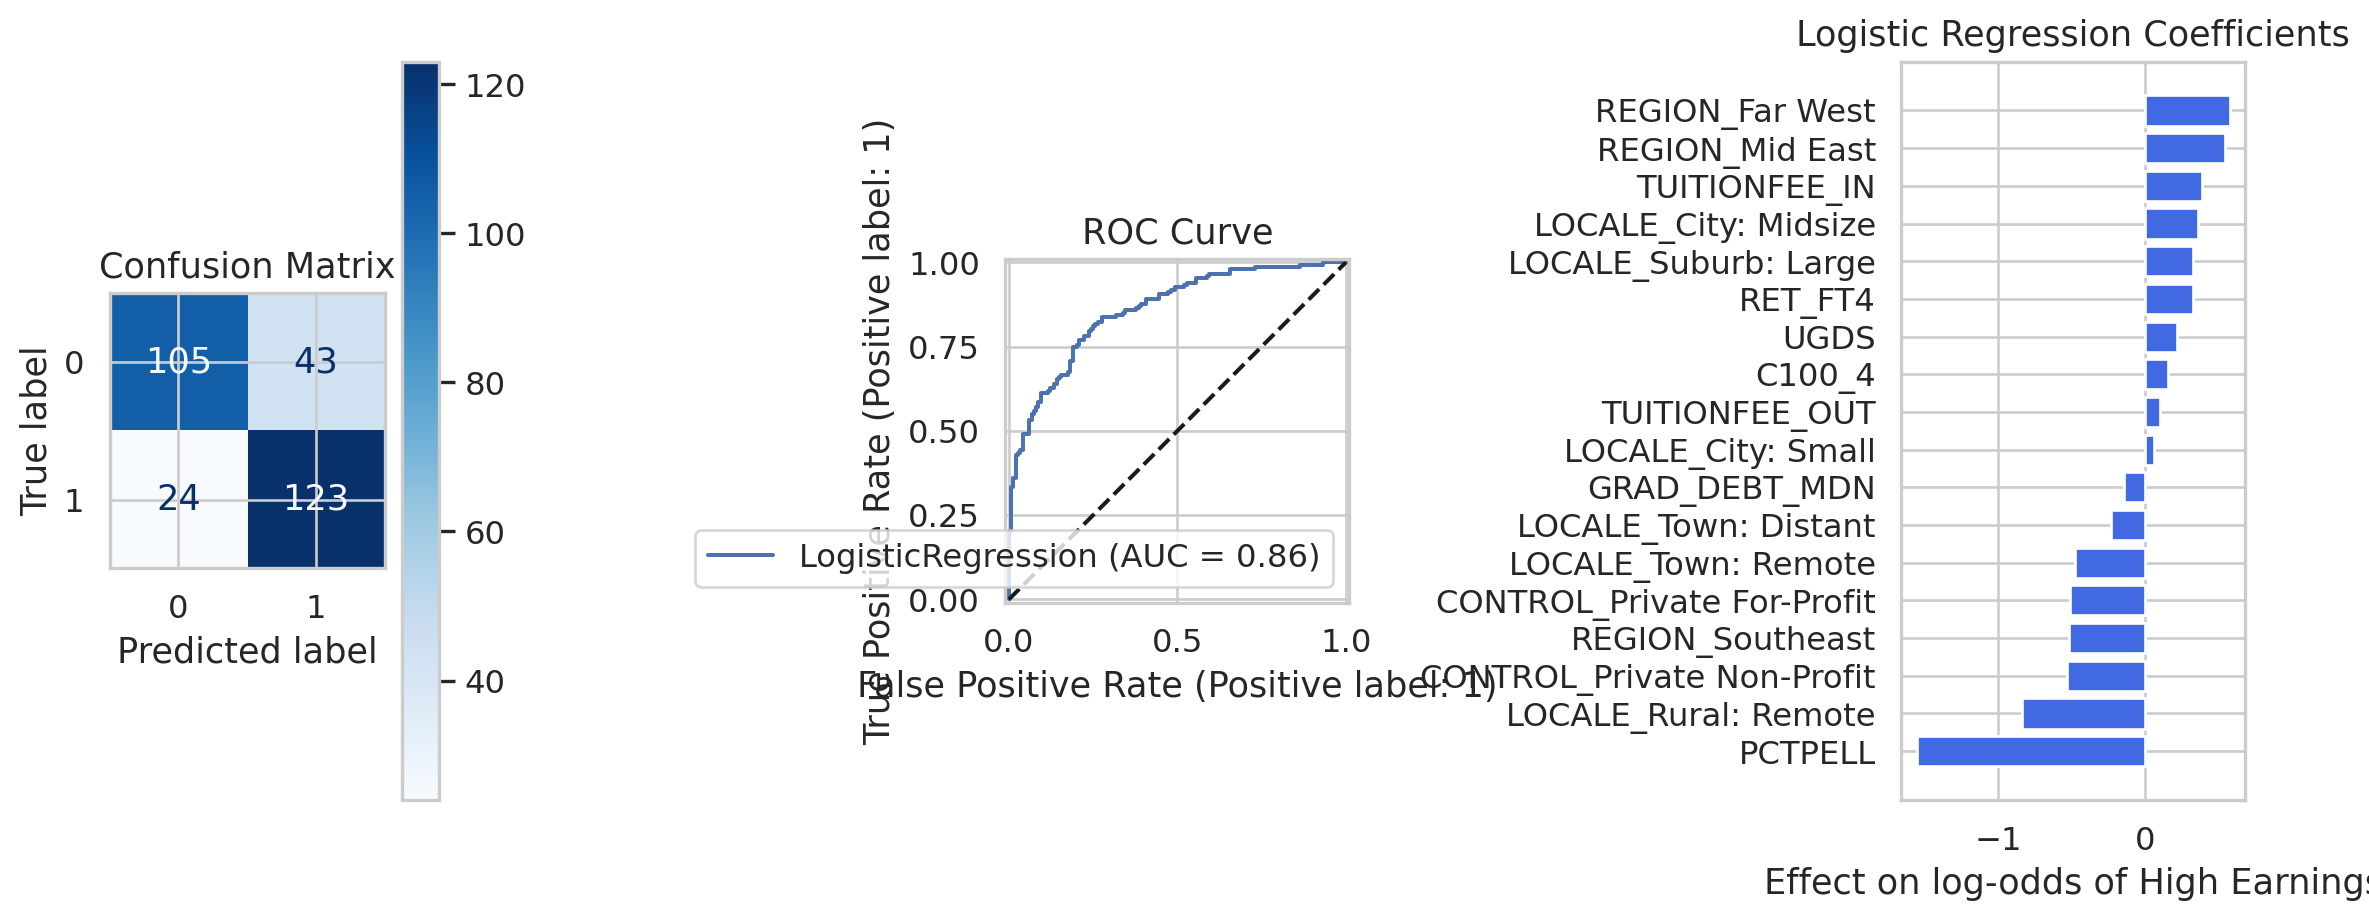
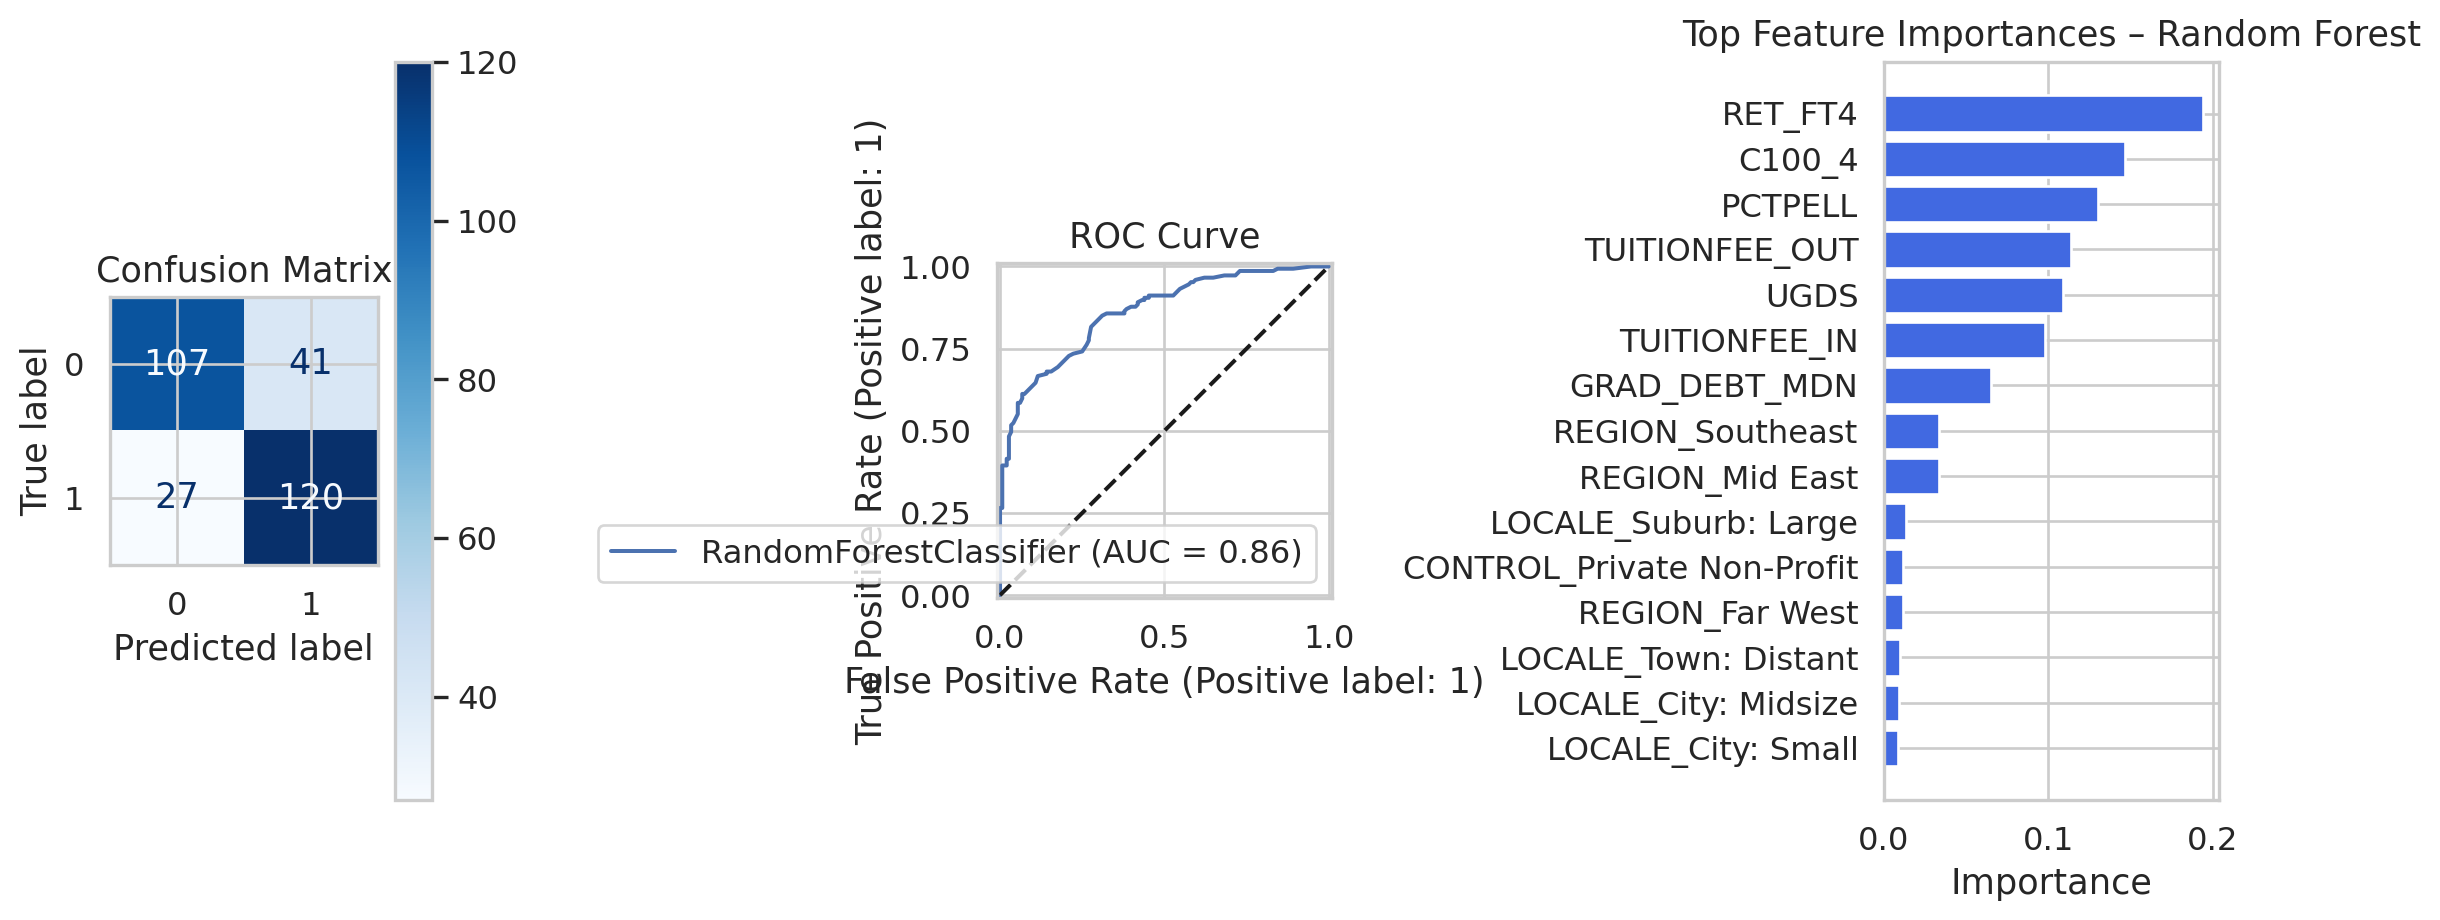
Built site for gh-pages

diff --git a/presentation.html b/presentation.html
@@ -223,7 +223,7 @@ Ava Lasater
 </section>
 <section id="correlation-matrix-of-numerical-features" class="slide level2 smaller">
 <h2>Correlation Matrix of Numerical Features</h2>
-<div id="a780d1a2" class="cell" data-fig-height="6" data-fig-responsive="false" data-fig-width="8" data-execution_count="4">
+<div id="9984a62b" class="cell" data-fig-height="6" data-fig-responsive="false" data-fig-width="8" data-execution_count="4">
 <div class="cell-output cell-output-display">
 <div class="quarto-figure quarto-figure-center">
 <figure>
@@ -264,7 +264,7 @@ Ava Lasater
 </section>
 <section id="linear-regression-results-1" class="slide level2 smaller">
 <h2>Linear Regression Results</h2>
-<div id="66798e18" class="cell" data-fig-height="6" data-fig-responsive="false" data-fig-width="8" data-execution_count="5">
+<div id="b8c86883" class="cell" data-fig-height="6" data-fig-responsive="false" data-fig-width="8" data-execution_count="5">
 <div class="cell-output cell-output-stdout">
 <pre><code>Mean Squared Error: 110300510.89
 R-squared: 0.4855</code></pre>
@@ -295,7 +295,7 @@ R-squared: 0.4855</code></pre>
 </section>
 <section id="ridge-regression-results-1" class="slide level2 smaller">
 <h2>Ridge Regression Results</h2>
-<div id="36ed5745" class="cell" data-fig-height="6" data-fig-responsive="false" data-fig-width="10" data-execution_count="6">
+<div id="c3d48152" class="cell" data-fig-height="6" data-fig-responsive="false" data-fig-width="10" data-execution_count="6">
 <div class="cell-output cell-output-stdout">
 <pre><code>Ridge Regression:
 Mean Squared Error: 110226157.793066
@@ -329,7 +329,7 @@ R-squared: 0.48583010161522244</code></pre>
 </section>
 <section id="selectkbest-feature-selection" class="slide level2">
 <h2>SelectKBest Feature Selection</h2>
-<div id="bba73abb" class="cell" data-fig-height="6" data-fig-responsive="false" data-fig-width="10" data-execution_count="7">
+<div id="f05d2122" class="cell" data-fig-height="6" data-fig-responsive="false" data-fig-width="10" data-execution_count="7">
 <div class="cell-output cell-output-display">
 <div class="quarto-figure quarto-figure-center">
 <figure>
@@ -358,18 +358,6 @@ R-squared: 0.48583010161522244</code></pre>
 <li><strong>Takeaway:</strong> Structural and academic characteristics (size, retention, completion) and student composition matter more than geographic setting.</li>
 </ul>
 </section>
-<section id="permutation-importance" class="slide level2">
-<h2>Permutation Importance</h2>
-<div id="ec995749" class="cell" data-fig-height="6" data-fig-responsive="false" data-fig-width="10" data-execution_count="8">
-<div class="cell-output cell-output-display">
-<div class="quarto-figure quarto-figure-center">
-<figure>
-<p><img data-src="presentation_files/figure-revealjs/cell-9-output-1.png" class="quarto-figure quarto-figure-center" width="940" height="556"></p>
-</figure>
-</div>
-</div>
-</div>
-</section>
 <section id="logistic-regression-classification" class="slide level2 smaller">
 <h2>Logistic Regression Classification</h2>
 <ul>
@@ -391,10 +379,10 @@ R-squared: 0.48583010161522244</code></pre>
 </section>
 <section id="logistic-regression-results" class="slide level2 smaller">
 <h2>Logistic Regression Results</h2>
-<div id="6ad71414" class="cell" data-fig-height="5" data-fig-responsive="false" data-fig-width="12" data-execution_count="9">
+<div id="5275eeb2" class="cell" data-fig-height="5" data-fig-responsive="false" data-fig-width="12" data-execution_count="8">
 <div class="cell-output cell-output-stdout">
 <pre><code>k-Fold F1-Score: 0.80
-k-Fold CV took 0.14 seconds
+k-Fold CV took 0.08 seconds
 
 Logistic Regression Accuracy: 0.7728813559322034
 Logistic Regression Precision: 0.7775823831391786
@@ -404,7 +392,7 @@ Logistic Regression F-1 Score: 0.7719854657317307</code></pre>
 <div class="cell-output cell-output-display">
 <div class="quarto-figure quarto-figure-center">
 <figure>
-<p><img data-src="presentation_files/figure-revealjs/cell-10-output-2.png" class="quarto-figure quarto-figure-center" width="1185" height="460"></p>
+<p><img data-src="presentation_files/figure-revealjs/cell-9-output-2.png" class="quarto-figure quarto-figure-center" width="1185" height="460"></p>
 </figure>
 </div>
 </div>
@@ -436,20 +424,20 @@ Logistic Regression F-1 Score: 0.7719854657317307</code></pre>
 </section>
 <section id="random-forest-results" class="slide level2 smaller">
 <h2>Random Forest Results</h2>
-<div id="52f8c808" class="cell" data-fig-height="5" data-fig-responsive="false" data-fig-width="12" data-execution_count="10">
+<div id="39d6d275" class="cell" data-fig-height="5" data-fig-responsive="false" data-fig-width="12" data-execution_count="9">
 <div class="cell-output cell-output-stdout">
 <pre><code>Random Forest Cross Validation
 k-Fold F1-Score: 0.81
-k-Fold CV took 1.08 seconds
-Random Forest Accuracy: 0.7627118644067796
-Random Forest Precision: 0.7659258699084007
-Random Forest Recall: 0.7627118644067796
-Random Forest F-1 Score: 0.762055768179333</code></pre>
+k-Fold CV took 1.16 seconds
+Random Forest Accuracy: 0.7694915254237288
+Random Forest Precision: 0.772014650403106
+Random Forest Recall: 0.7694915254237288
+Random Forest F-1 Score: 0.7690085128238753</code></pre>
 </div>
 <div class="cell-output cell-output-display">
 <div class="quarto-figure quarto-figure-center">
 <figure>
-<p><img data-src="presentation_files/figure-revealjs/cell-11-output-2.png" class="quarto-figure quarto-figure-center" width="1229" height="460"></p>
+<p><img data-src="presentation_files/figure-revealjs/cell-10-output-2.png" class="quarto-figure quarto-figure-center" width="1220" height="460"></p>
 </figure>
 </div>
 </div>
@@ -457,11 +445,11 @@ Random Forest F-1 Score: 0.762055768179333</code></pre>
 </section>
 <section id="calibration-probabilities-vs.-accuracy" class="slide level2 smaller">
 <h2>Calibration: Probabilities vs.&nbsp;Accuracy</h2>
-<div id="9030d694" class="cell" data-fig-height="6" data-fig-responsive="false" data-fig-width="7" data-execution_count="11">
+<div id="bdf62ea5" class="cell" data-fig-height="6" data-fig-responsive="false" data-fig-width="7" data-execution_count="10">
 <div class="cell-output cell-output-display">
 <div class="quarto-figure quarto-figure-center">
 <figure>
-<p><img data-src="presentation_files/figure-revealjs/cell-12-output-1.png" class="quarto-figure quarto-figure-center" width="652" height="556"></p>
+<p><img data-src="presentation_files/figure-revealjs/cell-11-output-1.png" class="quarto-figure quarto-figure-center" width="652" height="556"></p>
 </figure>
 </div>
 </div>
